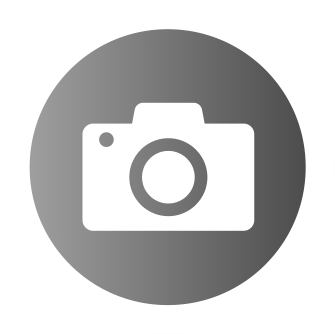
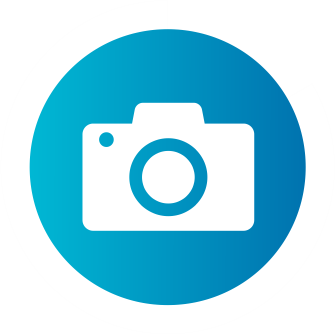
ganti tema

diff --git a/index.html b/index.html
@@ -17,14 +17,14 @@
     <title>Bangkems</title>
 </head>
 
-<body id="home" class="scrollspy">
+<body id="#" class="scrollspy">
     <!-- Navbar Menu -->
     <div class="navbar-fixed">
-        <nav class="pink accent-3">
+        <nav class="pink accent-4">
           <div class="container">
             <div class="nav-wrapper">
               <!-- Headbar -->
-              <a href="#home">
+              <a href="#">
               <img src="img/head.png" width="120">
               </a>
 
@@ -56,26 +56,26 @@
         <ul class="slides">
 
           <li>
-            <img src="img/slider/menu-1.jpg"> <!-- random image -->
+            <img src="img/slider/slider-1.png" width="100"> <!-- random image -->
             <div class="caption left-align">
-              <h3>This is our big Tagline!</h3>
-              <h5 class="light grey-text text-lighten-3">Here's our small slogan.</h5>
+              <h3>Hello, Guest!</h3>
+              <h5 class="light grey-text text-lighten-3">Welcome to Taufik Kemal's Portfolio Website</h5>
             </div>
           </li>
 
           <li>
-            <img src="img/slider/menu-2.jpg"> <!-- random image -->
+            <img src="img/slider/slider-2.png" width="100"> <!-- random image -->
             <div class="caption right-align">
-              <h3>This is our big Tagline!</h3>
-              <h5 class="light grey-text text-lighten-3">Here's our small slogan.</h5>
+              <h3>This is My Website</h3>
+              <h5 class="light grey-text text-lighten-3">Here's some portfolio you can acces</h5>
             </div>
           </li>
 
           <li>
-            <img src="img/slider/menu-3.jpg"> <!-- random image -->
+            <img src="img/slider/slider-3.png" width="120"> <!-- random image -->
             <div class="caption center-align">
-              <h3>This is our big Tagline!</h3>
-              <h5 class="light grey-text text-lighten-3">Here's our small slogan.</h5>
+              <h3>Enjoy it!</h3>
+              <h5 class="light grey-text text-lighten-3">Hope you can enjoy this site</h5>
             </div>
           </li>
         </ul>
@@ -85,9 +85,12 @@
       <!-- About Us -->
       <section id="about" class="about scrollspy">
         <div class="container">
+          <div class="row">
+            <img src="img/kem.jpg" class="center" width="100">
+          </div>
           <div class="row s12">
             <h3 class="center light grey-text text-darken-3">About Me</h3>
-            
+
             <div class="col m4 light">
               <h5>This is me!</h5>
               <p class="justify">I am Taufik Kemal Thaha, born in Palu, November 14, 2001.
@@ -122,9 +125,11 @@
         </div>
       </section>
 
-      <!-- Client Group-->
+      <!-- Parallax Client Group-->
       <div id="clients" class="parallax-container scrollspy">
-        <div class="parallax"><img src="img/slider/3.png"></div>
+        <div class="parallax s12">
+          <img src="img/slider/1.png" class="responsive-img">
+        </div>
       
         <div class="container clients ">
           <h3 class="center light white-text">Our Clients</h3>
@@ -142,6 +147,7 @@
             <div class="col m4 s12 center">
               <img src="img/clients/traveloka.png">
             </div>
+          </div>
 
         </div>
 
@@ -157,7 +163,7 @@
         
               <!-- Card Panel -->
               <div class="col m4 s12">
-                <div class="card-panel pink accent-3 center white-text text-lighten-1">
+                <div class="card-panel pink accent-4 center white-text text-lighten-1">
                   <img src="img/skill/sek-1.png" width="150">
                   <h5>Photography</h5>
                 </div>
@@ -165,7 +171,7 @@
 
 
               <div class="col m4 s12">
-                <div class="card-panel grey accent-3 center white-text text-lighten-1">
+                <div class="card-panel cyan accent-4 center white-text text-lighten-1">
                   <img src="img/skill/sek-2.png" width="150">
                   <h5>After Effect</h5>
                 </div>
@@ -173,7 +179,7 @@
 
             
               <div class="col m4 s12">
-                <div class="card-panel pink accent-3 center white-text text-lighten-1">
+                <div class="card-panel pink accent-4 center white-text text-lighten-1">
                   <img src="img/skill/sek-3.png" width="150">
                   <h5>Corel Draw</h5>
                 </div>
@@ -183,7 +189,7 @@
             <!-- Row Baru-->
             <div class="row">
               <div class="col m4 s12">
-                <div class="card-panel grey accent-3 center white-text text-lighten-1">
+                <div class="card-panel cyan accent-4 center white-text text-lighten-1">
                   <img src="img/skill/sek-5.png" width="150">
                   <h5>Premiere Pro</h5>
                 </div>
@@ -191,7 +197,7 @@
 
 
               <div class="col m4 s12">
-                <div class="card-panel pink accent-3 center white-text text-lighten-1">
+                <div class="card-panel pink accent-4 center white-text text-lighten-1">
                   <img src="img/skill/sek-4.png" width="150">
                   <h5>Music</h5>
                 </div>
@@ -199,7 +205,7 @@
 
 
               <div class="col m4 s12">
-                <div class="card-panel grey center white-text text-lighten-1">
+                <div class="card-panel cyan center white-text text-lighten-1">
                   <img src="img/skill/sek-6.png" width="150">
                   <h5>Photoshop</h5>
                 </div>
@@ -266,7 +272,7 @@
 
             <div class="col m5 s12">
               <!-- Card -->
-              <div class="card-panel pink accent-3 center white-text">
+              <div class="card-panel pink accent-4 center white-text">
                 <i class="material-icons medium">email</i>
                 <p>You can contact me on direct link below</p>
               </div>
@@ -311,12 +317,21 @@
 
                     <br>
                     <!-- Button -->
-                    <button type="submit" class="btn pink accent-3">Send</button>
+                    <button type="submit" class="btn pink accent-4">Send</button>
                 </div>
               </form>
             </div>
           </div>
+        </div>
+      </section>
+      
 
+        <!-- Social Media -->
+    <section id="socialmedia" class="socialmedia">
+    
+      
+        <div class="container">
+          
           <div class="row">
             <br>
             <br>
@@ -333,6 +348,7 @@
               </div>
 
             <div class="col m5 s12">
+              
               <div class="row">
                 <div class="col m5 s6 center">
                   <!-- Facebook -->
@@ -346,23 +362,22 @@
                   </a>
 
                 </div>
-                  <br>
+                
                 <div class="col m5 s6 center">
                   <!-- Whatsapp -->
                   <a href="https://api.whatsapp.com/send?phone=62811446200" target="blank">
                     <img src="img/contact/wa.png" width="150">
                   </a>
-
+                  
                   <!-- Twitter -->
+                  <br>
                   <a href="https://twitter.com/taufikemal_" target="blank">
                     <img src="img/contact/tw.png" width="150">
                   </a>
                 </div>
               </div>
             </div>
-
           </div>
-
 
         </div>
       </section>
@@ -381,7 +396,6 @@
       <footer class="pink accent-3 white-text center">
         <p>Copyright 2020 || Taufik Kemal Thaha</p>
       </footer>
-
 
 
 

diff --git a/css/style.css b/css/style.css
@@ -5,7 +5,7 @@
 }
 
 .parallax-container {
-    height: 20%;
+    height: 40%;;
 }
 
 .parallax img {
